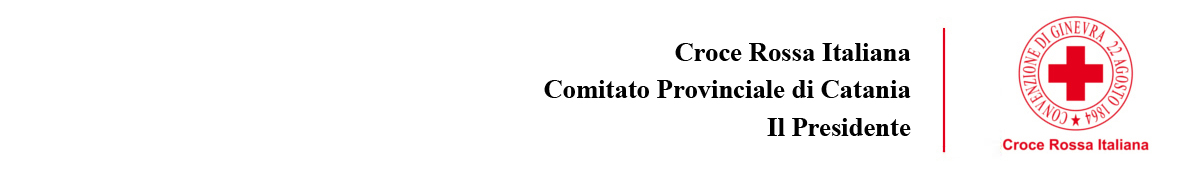
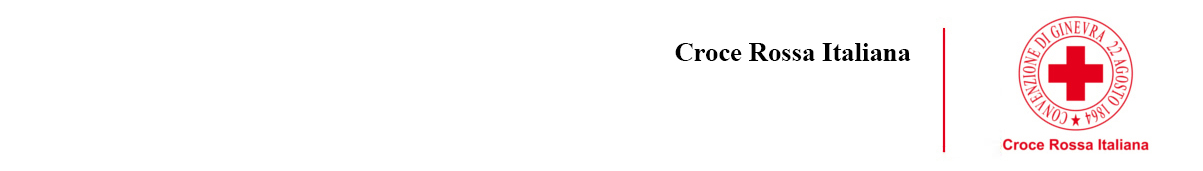
sistemata la ricevuta del protocollo - parametrizzati tutti i dati del comitato fix #1 - fix #3

Changed region(s): [[0.4306, 0.4678, 0.7689, 0.5848], [0.6151, 0.6725, 0.7689, 0.8187], [0.5536, 0.2632, 0.7689, 0.3509]]

diff --git a/public/advancedsettings-inserisci.php b/public/advancedsettings-inserisci.php
@@ -15,6 +15,10 @@ $protocollomaxfilesize = $_POST['protocollomaxfilesize'];
 $fotomaxfilesize = $_POST['fotomaxfilesize'];
 $paginaprincipale = $_POST['paginaprincipale'];
 $headerdescription = $_POST['headerdescription'];
+$sede = $_POST['sede'];
+$denominazione = $_POST['denominazione'];
+$vertice = $_POST['vertice'];
+$inizio = $_POST['inizio'];
 
 //Settaggio Mail
 $mittente = $_POST['mittente'];
@@ -23,7 +27,9 @@ $footermail = $_POST['footermail'];
 //fine settaggio mail
 
 //eventuale settaggio del primo numero del nuovo protocollo
-$primoprotocollo= $_POST['primoprotocollo'];
+if(isset($_POST['primoprotocollo'])) {
+	$primoprotocollo= $_POST['primoprotocollo'];
+}
 $contalettere=mysql_query("select count(*) from lettere$annoprotocollo");
 $res_count=mysql_fetch_row($contalettere);
 $contalettere= $res_count[0] +1 ;
@@ -33,7 +39,7 @@ if (!$queryprimoprotocollo) { echo 'Variazione del primo numero del protocollo N
 }
 //fine eventuale settaggio del primo numero del nuovo protocollo
 
-$inserimento=mysql_query("update defaultsettings set defaultsettings.version = $version, defaultsettings.email = '$email', defaultsettings.nomeapplicativo='$nomeapplicativo', defaultsettings.paginaprincipale = '$paginaprincipale' , defaultsettings.protocollomaxfilesize = '$protocollomaxfilesize' , defaultsettings.annoprotocollo = '$annoprotocollo', defaultsettings.headerdescription = '$headerdescription'");
+$inserimento=mysql_query("update defaultsettings set defaultsettings.version = $version, defaultsettings.email = '$email', defaultsettings.nomeapplicativo='$nomeapplicativo', defaultsettings.paginaprincipale = '$paginaprincipale' , defaultsettings.protocollomaxfilesize = '$protocollomaxfilesize' , defaultsettings.fotomaxfilesize = '$fotomaxfilesize' ,  defaultsettings.annoprotocollo = '$annoprotocollo', defaultsettings.headerdescription = '$headerdescription', defaultsettings.sede = '$sede', defaultsettings.denominazione = '$denominazione', defaultsettings.vertice = '$vertice', defaultsettings.inizio = '$inizio'");
 
 $inserimento2=mysql_query("update mailsettings set mailsettings.mittente = '$mittente', mailsettings.headermail = '$headermail', mailsettings.footermail = '$footermail'");
 
@@ -59,6 +65,10 @@ else {
 	$_SESSION['mittente'] = $mittente; 
 	$_SESSION['headermail'] = $headermail; 
 	$_SESSION['footermail'] = $footermail;
+	$_SESSION['sede'] = $sede;
+	$_SESSION['denominazione'] = $denominazione;
+	$_SESSION['vertice'] = $vertice;
+	$_SESSION['inizio'] = $inizio;
 }
 ?>
 

diff --git a/public/componilettera.php b/public/componilettera.php
@@ -3,6 +3,7 @@
 	include '../db-connessione-include.php'; //connessione al db-server
 	include "class/Calendario.obj.inc";
 	$calendario = new Calendario();
+	$margin = 480 - ((strlen($_SESSION["denominazione"]) / 2) * 4.8 );
 	$id = $_GET['id'];
 	if(isset($_GET['from'])) {
 		$from = $_GET['from'];
@@ -46,7 +47,7 @@
 			<table style="vertical-align: top;" border="0" cellspacing="0">
 				<tr>
 					<td colspan="2" width="380">
-						Catania, '.$data.'
+						' . $_SESSION["sede"] . ', '.$data.'
 						<br><br>';
 						if($protocollo != 0) {
 							$content = $content.'<table border="0"><tr><td rowspan=2"><img src="lettere'.$anno.'/qrcode/'.$protocollo.$anno.'.png" width="90"></td><td style="vertical-align: bottom;">Protocollo n&ordm; '.$protocollo.'</td></tr><tr><td style="vertical-align: top;">del '.$dataprot.'</td></tr></table><br>';
@@ -173,12 +174,12 @@
 										</div>';
 					}
 					else {
-						$content = $content.' <span style="margin-left: 500px;">
-											Il Presidente
+						$content = $content.' <span style="margin-left: 480px;">
+											Il ' . $_SESSION["vertice"] . '
 										</span>
 										<br>
-										<span style="margin-left: 422px;">
-											Comitato Provinciale CRI Catania
+										<span style="margin-left: ' . $margin . 'px;">
+											' . $_SESSION["denominazione"] . '
 										</span>';
 					}
 					$content = $content.'

diff --git a/public/home-centro-include.php b/public/home-centro-include.php
@@ -100,8 +100,8 @@
 				
 				<p><?php 
 				//Utilizzo Catania
-				$anniusoapplicazione = (strtotime("now") - strtotime("2014/6/4"))/60/60/24/365;
-				$giorniusoapplicazione = ((strtotime("now") - strtotime("2014/6/4"))/60/60/24)-(int)$anniusoapplicazione*365;
+				$anniusoapplicazione = (strtotime("now") - strtotime($_SESSION['inizio']))/60/60/24/365;
+				$giorniusoapplicazione = ((strtotime("now") - strtotime($_SESSION['inizio']))/60/60/24)-(int)$anniusoapplicazione*365;
 				echo $_SESSION['nomeapplicativo'] . ' e\' in uso da '; 
 				
 				if( (int)$anniusoapplicazione > 0) { 
@@ -225,7 +225,7 @@
 				<?php
 				$file = new File();
 				$dim =  round($file->sizeDirectory("../public/") / (1024*1024), 2) ;
-				$max = 2000000;
+				$max = $_SESSION['quota'];
 				$percentuale = ( $dim / $max ) * 100;
 				if($percentuale <=50)
 					$class = "progress-bar-success";
@@ -238,7 +238,7 @@
 					<div class="progress-bar <?php echo $class; ?>" role="progressbar" aria-valuenow="<?php echo $dim; ?>" aria-valuemin="0" aria-valuemax="<?php echo $max; ?>" style="width: <?php echo $percentuale; ?>%;">
 					</div>
 				</div>
-				<center><?php echo $dim.' MB su 2 TB (' . round($percentuale,3).'%)'; ?></center>
+				<center><?php echo $dim.' MB su ' . $max . ' MB (' . round($percentuale,3).'%)'; ?></center>
 			</div>
 		
 		</div>

diff --git a/public/login1.php b/public/login1.php
@@ -130,6 +130,11 @@ $_SESSION['fototargetpath']= $settings4['fototargetpath'] ; //percorso relativo 
 $_SESSION['splash']= $settings4['splash'] ; //percorso relativo per lo splash in alto a destra
 $_SESSION['notificains'] = $settings4['notificains'];
 $_SESSION['notificamod'] = $settings4['notificamod'];
+$_SESSION['sede'] = $settings4['sede'];
+$_SESSION['denominazione'] = $settings4['denominazione'];
+$_SESSION['vertice'] = $settings4['vertice'];
+$_SESSION['inizio'] = $settings4['inizio'];
+$_SESSION['quota'] = $settings4['quota'];
 //fine caricamento dei settaggi personalizzati
 
 $_SESSION['mittente'] = $settings6['mittente'];

diff --git a/public/stampa-protocollo.php b/public/stampa-protocollo.php
@@ -54,11 +54,11 @@ $pdf->Write('6','Oggetto: ' . $dettagli['oggetto']);
 $pdf->Ln(25);
 $pdf->Write('',$iniziale);
 $pdf->Ln(25);
-$pdf->Write('','Catania, ' . $now);
+$pdf->Write('',$_SESSION['sede'] . ', ' . $now);
 $pdf->SetXY(140,190);
 $pdf->Write('','L\'ADDETTO');
 $pdf->SetFont('Times','',11);
 $pdf->SetY(240);
 $pdf->Write('',$finale);
-$pdf->Output('protocollo'.$now.'.pdf','I');
+$pdf->Output('ricevutaprotocollo.pdf','I');
 ?>

diff --git a/public/invia-newsletter2-centro-include.php b/public/invia-newsletter2-centro-include.php
@@ -39,7 +39,7 @@
 	include "../mail-conf-include.php";
 	
 	$mail->From = $mittente;
-	$mail->FromName = 'Comitato Provinciale CRI Catania';
+	$mail->FromName = $_SESSION['denominazione'];
 	
 	foreach ($destinatari as $valore) {
 		$mail->addAddress($valore);     // Add a recipient
